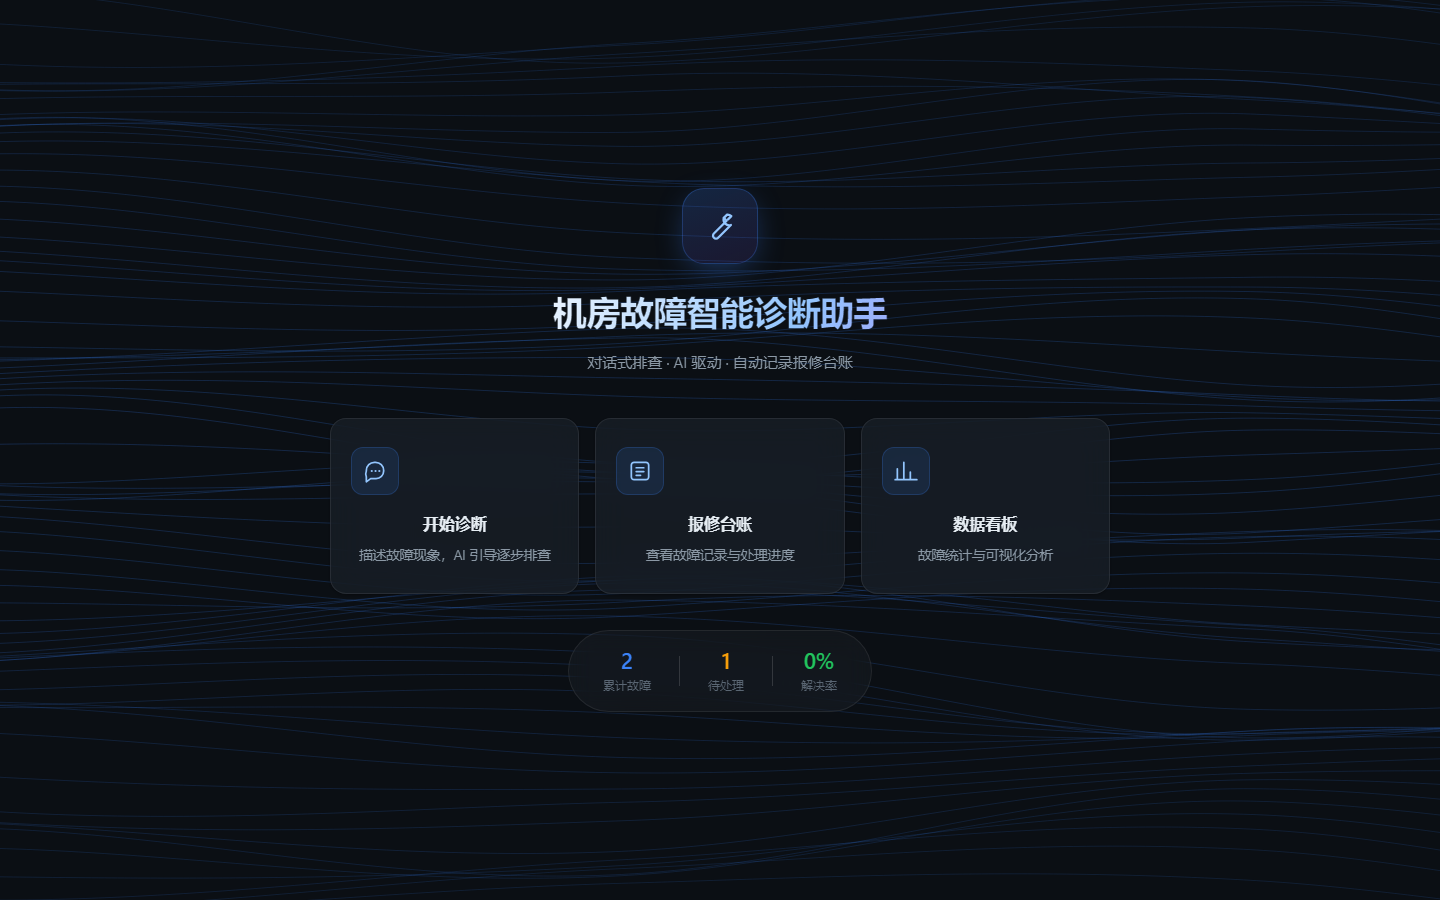
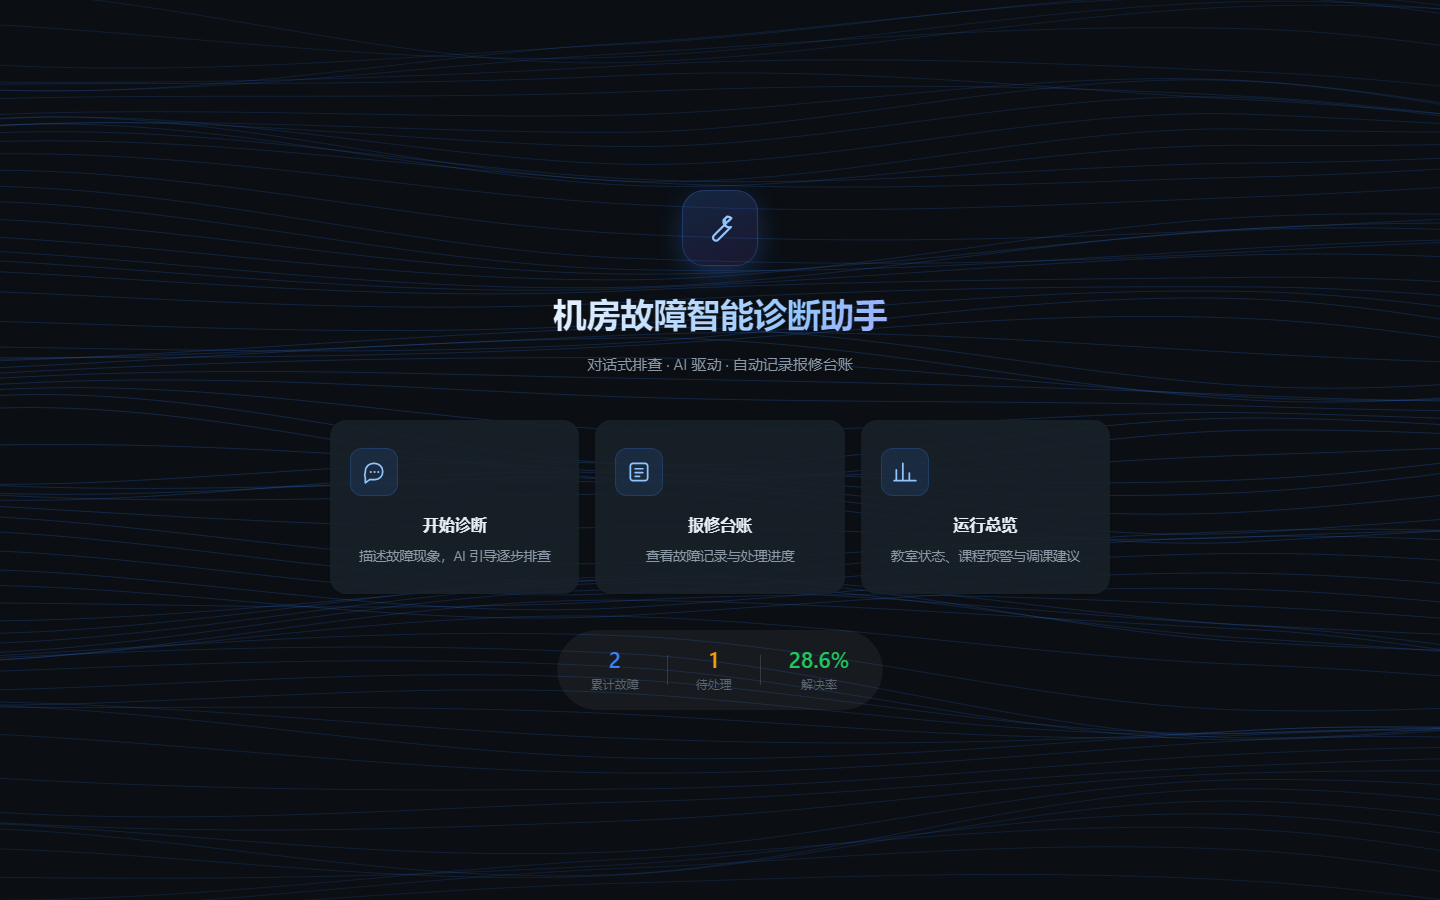
perf: 去掉 backdrop-filter、背景限帧，修掉换动态背景后掉帧
一、掉帧的真正原因

  不是背景画得太重，是**动画背景叠了一屏的 backdrop-filter**。

  全站 16 种元素用了背景模糊，共 35 处，其中包括：
    · .record           —— 每一条报修记录一行
    · .sched-matrix thead th —— 课表表头 12 个格子
    · .kpi              —— 5 个
    · .ov-card / .chart-card / .sched-card —— 看板上好几块

  背景 canvas 每变一次，这些区域就要**全部重新做一遍高斯模糊**。
  静态背景时完全看不出来，一换成动画背景立刻暴露 ——
  屏幕上有 20 多块区域在每帧重新模糊。

  背景绘制本身也有量：76 条线 × 约 223 个采样点 = 每帧 1.7 万个点，
  DPR 上限 2 使 canvas 达到 2880×1800（520 万像素），每帧全清一次。

二、改了什么

  1. 移除全部 35 处 backdrop-filter（含 -webkit- 前缀）
     面板底色从 rgba(26,33,41,0.72) 提到 0.92 作为补偿 ——
     背景本来就淡，肉眼几乎看不出区别，卡片反而更清爽。

  2. 背景限制帧率：落地页 30fps、应用页 20fps
     线条演化很慢（一个起伏要好几秒），30fps 与 60fps 看不出差别，
     但绘制量直接减半。应用页背景 alpha 只有 0.07，几乎看不见，
     20fps 足够。
     dt 用真实间隔计算，降帧后动画速度不变。

三、顺带

  落地页入口卡片还写着「数据看板」，改成「运行总览」
  （侧边栏和页面标题早就改了，只有这张卡片漏了）。

四、验证

  · 330 个测试通过
  · 落地页与应用页截图确认视觉无回归
  · 无法在无头浏览器里测真实帧率（虚拟时钟 + 无 GPU 不代表实机），
    实际提升需要在你机器上看

diff --git a/web/static/style.css b/web/static/style.css
@@ -6,7 +6,7 @@
 :root {
   --bg: #0b0f14;
   --bg-soft: #11171f;
-  --panel: rgba(26, 33, 41, 0.72);
+  --panel: rgba(26, 33, 41, 0.92);
   --panel-solid: #1a2129;
   --border: rgba(255, 255, 255, 0.08);
   --border-strong: rgba(255, 255, 255, 0.14);
@@ -25,7 +25,7 @@
   /* ---- 层次感：三层表面 ----
      页面底是最暗的 --bg，卡片在此基础上略微提亮并加描边，
      悬浮/激活再叠一层主色。这样视线有落点，不会"一坨平"。 */
-  --surface-1: rgba(26, 33, 41, 0.72);   /* 常规卡片 */
+  --surface-1: rgba(26, 33, 41, 0.92);   /* 常规卡片 */
   --surface-2: rgba(33, 42, 52, 0.85);   /* 嵌套卡片 / 悬浮态 */
   --surface-3: rgba(42, 54, 66, 0.92);   /* 弹窗 / 强调块 */
 
@@ -149,9 +149,7 @@ body {
   padding: 5px 11px;
   border-radius: 100px;
   background: rgba(17, 23, 31, 0.82);
-  backdrop-filter: blur(12px);
-  -webkit-backdrop-filter: blur(12px);
-  border: 1px solid var(--border);
+  -webkit-  border: 1px solid var(--border);
   font-size: var(--fs-xs);
   color: var(--text-faint);
   font-variant-numeric: tabular-nums;
@@ -372,9 +370,7 @@ button:disabled { cursor: not-allowed; }
 .entry-card {
   position: relative;
   background: var(--surface-1);
-  backdrop-filter: blur(16px);
-  -webkit-backdrop-filter: blur(16px);
-  border: 1px solid var(--border);
+  -webkit-  border: 1px solid var(--border);
   border-radius: var(--radius-lg);
   padding: 28px 20px;
   cursor: pointer;
@@ -465,10 +461,8 @@ button:disabled { cursor: not-allowed; }
   align-items: center;
   gap: 28px;
   padding: 16px 34px;
-  background: rgba(255, 255, 255, 0.03);
-  backdrop-filter: blur(12px);
-  -webkit-backdrop-filter: blur(12px);
-  border: 1px solid var(--border);
+  background: rgba(255, 255, 255, 0.05);
+  -webkit-  border: 1px solid var(--border);
   border-radius: 100px;
   animation: cardIn 0.6s var(--ease) 0.36s both;
 }
@@ -562,9 +556,7 @@ button:disabled { cursor: not-allowed; }
 
   border-radius: 18px;
   background: rgba(19, 25, 33, 0.90);
-  backdrop-filter: blur(22px) saturate(140%);
-  -webkit-backdrop-filter: blur(22px) saturate(140%);
-  border: 1px solid var(--border);
+  -webkit-  border: 1px solid var(--border);
   box-shadow: var(--shadow-lg);
 
   /* 高度随内容，超出视口时才滚动 */
@@ -890,9 +882,7 @@ main { flex: 1; overflow: hidden; position: relative; }
 }
 .msg.bot .bubble {
   background: var(--panel);
-  backdrop-filter: blur(12px);
-  -webkit-backdrop-filter: blur(12px);
-  border: 1px solid var(--border);
+  -webkit-  border: 1px solid var(--border);
 }
 .msg.user .bubble {
   background: linear-gradient(135deg, #3b82f6, #2563eb);
@@ -955,9 +945,7 @@ main { flex: 1; overflow: hidden; position: relative; }
 .composer input {
   flex: 1;
   background: var(--panel);
-  backdrop-filter: blur(12px);
-  -webkit-backdrop-filter: blur(12px);
-  border: 1px solid var(--border);
+  -webkit-  border: 1px solid var(--border);
   border-radius: 12px;
   padding: 12px 16px;
   color: var(--text);
@@ -1134,9 +1122,7 @@ main { flex: 1; overflow: hidden; position: relative; }
 
 .record {
   background: var(--panel);
-  backdrop-filter: blur(12px);
-  -webkit-backdrop-filter: blur(12px);
-  border: 1px solid var(--border);
+  -webkit-  border: 1px solid var(--border);
   border-radius: var(--radius);
   padding: 16px 19px;
   transition: all 0.26s var(--ease);
@@ -1290,9 +1276,7 @@ main { flex: 1; overflow: hidden; position: relative; }
 .kpi {
   position: relative;
   background: var(--surface-1);
-  backdrop-filter: blur(14px);
-  -webkit-backdrop-filter: blur(14px);
-  border: 1px solid var(--border);
+  -webkit-  border: 1px solid var(--border);
   border-radius: var(--radius-md);
   padding: 20px 18px;
   overflow: hidden;
@@ -1342,9 +1326,7 @@ main { flex: 1; overflow: hidden; position: relative; }
 
 .chart-card {
   background: var(--panel);
-  backdrop-filter: blur(14px);
-  -webkit-backdrop-filter: blur(14px);
-  border: 1px solid var(--border);
+  -webkit-  border: 1px solid var(--border);
   border-radius: var(--radius);
   padding: 18px;
   animation: msgIn 0.45s var(--ease) both;
@@ -1478,9 +1460,7 @@ main { flex: 1; overflow: hidden; position: relative; }
   padding: 16px 18px;
   margin-bottom: 18px;
   background: var(--panel);
-  backdrop-filter: blur(14px);
-  -webkit-backdrop-filter: blur(14px);
-  border: 1px solid var(--border);
+  -webkit-  border: 1px solid var(--border);
   border-radius: var(--radius);
 }
 
@@ -1523,9 +1503,7 @@ main { flex: 1; overflow: hidden; position: relative; }
 }
 .sched-col {
   background: var(--panel);
-  backdrop-filter: blur(14px);
-  -webkit-backdrop-filter: blur(14px);
-  border: 1px solid var(--border);
+  -webkit-  border: 1px solid var(--border);
   border-radius: var(--radius);
   padding: 16px;
   min-height: 180px;
@@ -2032,9 +2010,7 @@ main { flex: 1; overflow: hidden; position: relative; }
   left: 50%;
   transform: translateX(-50%) translateY(10px);
   background: rgba(26, 33, 41, 0.95);
-  backdrop-filter: blur(14px);
-  -webkit-backdrop-filter: blur(14px);
-  border: 1px solid rgba(59,130,246,0.35);
+  -webkit-  border: 1px solid rgba(59,130,246,0.35);
   color: #93c5fd;
   font-size: 13px;
   font-family: inherit;
@@ -2079,9 +2055,7 @@ main { flex: 1; overflow: hidden; position: relative; }
   inset: 0;
   z-index: 200;
   background: rgba(0, 0, 0, 0.62);
-  backdrop-filter: blur(5px);
-  -webkit-backdrop-filter: blur(5px);
-  display: flex;
+  -webkit-  display: flex;
   align-items: center;
   justify-content: center;
   padding: 24px;
@@ -2096,9 +2070,7 @@ main { flex: 1; overflow: hidden; position: relative; }
   display: flex;
   flex-direction: column;
   background: rgba(20, 26, 33, 0.98);
-  backdrop-filter: blur(24px);
-  -webkit-backdrop-filter: blur(24px);
-  border: 1px solid var(--border-strong);
+  -webkit-  border: 1px solid var(--border-strong);
   border-radius: 16px;
   box-shadow: 0 28px 70px -22px rgba(0, 0, 0, 0.95);
   animation: modalIn 0.32s var(--ease) both;
@@ -2918,9 +2890,7 @@ select option:hover {
 /* -------- 通用卡片 -------- */
 .ov-card {
   background: var(--panel);
-  backdrop-filter: blur(14px);
-  -webkit-backdrop-filter: blur(14px);
-  border: 1px solid var(--border);
+  -webkit-  border: 1px solid var(--border);
   border-radius: var(--radius);
   padding: 18px;
   margin-bottom: 16px;
@@ -3292,9 +3262,7 @@ select option:hover {
 /* -------- 课表 -------- */
 .sched-card {
   background: var(--panel);
-  backdrop-filter: blur(14px);
-  -webkit-backdrop-filter: blur(14px);
-  border: 1px solid var(--border);
+  -webkit-  border: 1px solid var(--border);
   border-radius: var(--radius);
   overflow: hidden;
 }
@@ -3312,7 +3280,6 @@ select option:hover {
   top: 0;
   z-index: 3;
   background: rgba(16, 21, 28, .97);
-  backdrop-filter: blur(10px);
   padding: 9px 4px 8px;
   font-size: 11px;
   font-weight: 500;
@@ -3420,9 +3387,7 @@ select option:hover {
 .sdetail {
   margin-top: 16px;
   background: var(--panel);
-  backdrop-filter: blur(14px);
-  -webkit-backdrop-filter: blur(14px);
-  border: 1px solid var(--border);
+  -webkit-  border: 1px solid var(--border);
   border-radius: var(--radius);
   padding: 18px;
 }

diff --git a/web/static/background.js b/web/static/background.js
@@ -39,6 +39,13 @@
     color: [59, 130, 246],   // 主题蓝
   };
 
+  // 帧率上限
+  //
+  // 线条演化的速度很慢（speed 1.2，一个完整起伏要好几秒），
+  // 30fps 和 60fps 肉眼几乎没区别，但绘制量直接减半。
+  // 应用页背景 alpha 只有 0.07，几乎看不见，再降到 20fps。
+  const FPS = { landing: 30, app: 20 };
+
   const ALPHA = {
     landing: 0.28,      // 落地页：清晰，是页面的视觉主体
     // 应用页：大幅淡化。
@@ -165,11 +172,21 @@
      ------------------------------------------------------------ */
   let lastTime = performance.now();
 
+  let lastPaint = 0;
+
   function draw(now) {
     rafId = null;
     if (!visible) return;
 
-    const dt = Math.min((now - lastTime) / 1000, 0.05);
+    // 帧率限制：不到间隔就只续订下一帧，不做任何绘制
+    const interval = 1000 / (FPS[mode] || 30);
+    if (now - lastPaint < interval - 1) {
+      rafId = requestAnimationFrame(draw);
+      return;
+    }
+    // dt 用真实间隔算，否则降帧后动画会变慢
+    const dt = Math.min((now - lastPaint) / 1000, 0.05);
+    lastPaint = now;
     lastTime = now;
 
     // 「减少动态」时几乎静止，只保留极缓慢的变化

diff --git a/web/templates/index.html b/web/templates/index.html
@@ -254,8 +254,8 @@
         <div class="entry-icon">
           <svg class="icon" width="26" height="26"><use href="#i-chart"/></svg>
         </div>
-        <h3>数据看板</h3>
-        <p>故障统计与可视化分析</p>
+        <h3>运行总览</h3>
+        <p>教室状态、课程预警与调课建议</p>
         <span class="entry-arrow">→</span>
       </div>
     </div>
@@ -571,7 +571,7 @@
 
        收起时只显示图标（一条窄栏），鼠标靠近自动展开显示文字。
        原来的「顶部胶囊导航 + 右侧抽屉」已合并到这里：
-         · 主导航（诊断 / 报修记录 / 数据看板 / 日常报备）
+         · 主导航（诊断 / 报修记录 / 运行总览 / 课表 / 日常报备）
          · 设备总览（展开时显示）
          · 教室与设备管理入口
          · 返回首页
